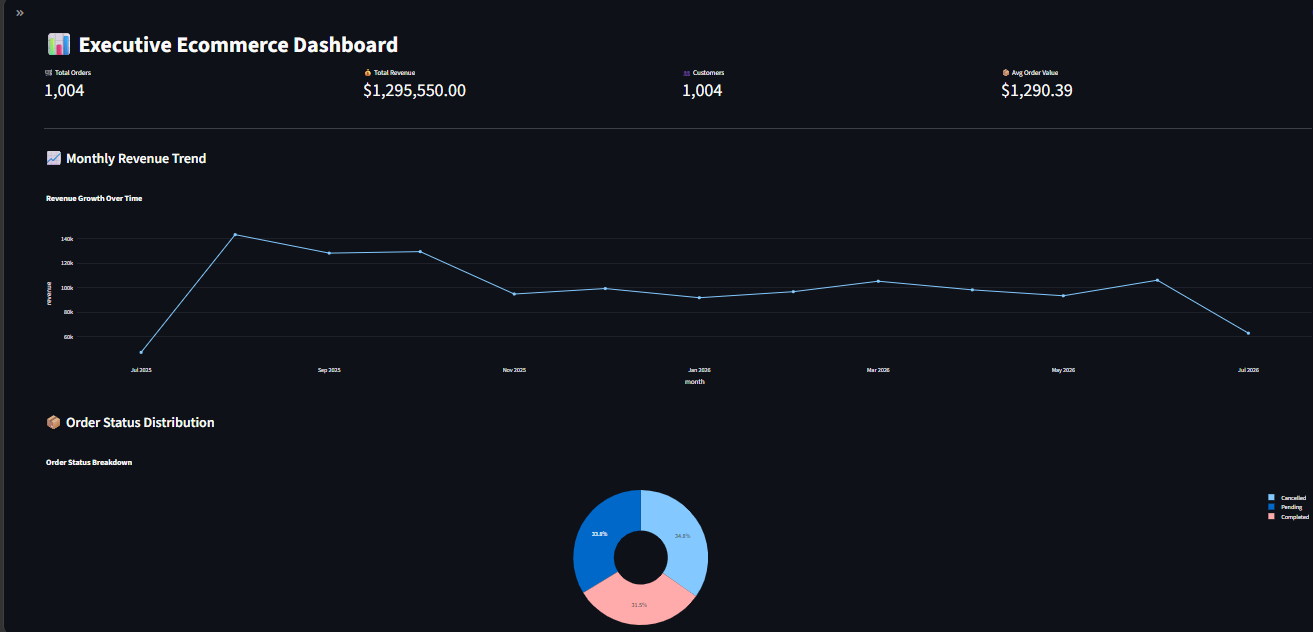
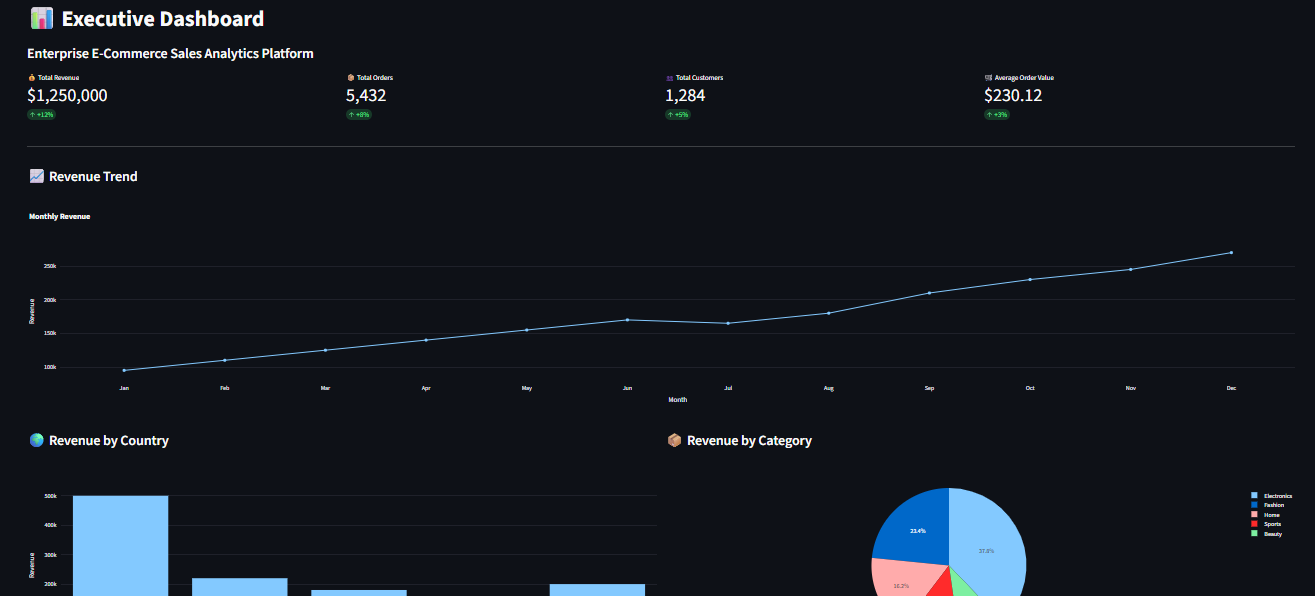
Updated executive dashboard and removed unused home dashboard

diff --git a/dashboard/pages/executive_dashboard.py b/dashboard/pages/executive_dashboard.py
@@ -1,0 +1,158 @@
+import streamlit as st
+import pandas as pd
+import plotly.express as px
+
+
+def show_executive():
+
+    st.title("📊 Executive Dashboard")
+    st.markdown("### Enterprise E-Commerce Sales Analytics Platform")
+
+    # ============================
+    # KPI CARDS
+    # ============================
+
+    col1, col2, col3, col4 = st.columns(4)
+
+    with col1:
+        st.metric(
+            label="💰 Total Revenue",
+            value="$1,250,000",
+            delta="+12%"
+        )
+
+    with col2:
+        st.metric(
+            label="📦 Total Orders",
+            value="5,432",
+            delta="+8%"
+        )
+
+    with col3:
+        st.metric(
+            label="👥 Total Customers",
+            value="1,284",
+            delta="+5%"
+        )
+
+    with col4:
+        st.metric(
+            label="🛒 Average Order Value",
+            value="$230.12",
+            delta="+3%"
+        )
+
+    st.divider()
+
+    # ============================
+    # SAMPLE DATA
+    # ============================
+
+    revenue_df = pd.DataFrame({
+        "Month": [
+            "Jan", "Feb", "Mar", "Apr",
+            "May", "Jun", "Jul", "Aug",
+            "Sep", "Oct", "Nov", "Dec"
+        ],
+        "Revenue": [
+            95000, 110000, 125000, 140000,
+            155000, 170000, 165000, 180000,
+            210000, 230000, 245000, 270000
+        ]
+    })
+
+    country_df = pd.DataFrame({
+        "Country": [
+            "USA",
+            "Canada",
+            "UK",
+            "Germany",
+            "India"
+        ],
+        "Revenue": [
+            500000,
+            220000,
+            180000,
+            150000,
+            200000
+        ]
+    })
+
+    category_df = pd.DataFrame({
+        "Category": [
+            "Electronics",
+            "Fashion",
+            "Home",
+            "Sports",
+            "Beauty"
+        ],
+        "Revenue": [
+            420000,
+            260000,
+            180000,
+            140000,
+            110000
+        ]
+    })
+
+    # ============================
+    # REVENUE TREND
+    # ============================
+
+    st.subheader("📈 Revenue Trend")
+
+    fig = px.line(
+        revenue_df,
+        x="Month",
+        y="Revenue",
+        markers=True,
+        title="Monthly Revenue"
+    )
+
+    st.plotly_chart(fig, use_container_width=True)
+
+    # ============================
+    # TWO CHARTS
+    # ============================
+
+    col1, col2 = st.columns(2)
+
+    with col1:
+
+        st.subheader("🌍 Revenue by Country")
+
+        fig = px.bar(
+            country_df,
+            x="Country",
+            y="Revenue"
+        )
+
+        st.plotly_chart(fig, use_container_width=True)
+
+    with col2:
+
+        st.subheader("📦 Revenue by Category")
+
+        fig = px.pie(
+            category_df,
+            names="Category",
+            values="Revenue"
+        )
+
+        st.plotly_chart(fig, use_container_width=True)
+
+    st.divider()
+
+    # ============================
+    # TOP PRODUCTS
+    # ============================
+
+    st.subheader("🏆 Top Product Categories")
+
+    st.dataframe(
+        category_df.sort_values(
+            by="Revenue",
+            ascending=False
+        ),
+        use_container_width=True
+    )

diff --git a/app.py b/app.py
@@ -1,6 +1,9 @@
 import streamlit as st
 
-from dashboard.pages.home_dashboard import show_home
+from dashboard.pages.executive_dashboard import show_executive
+from dashboard.pages.sales_dashboard import show_sales
+from dashboard.pages.customer_dashboard import show_customer
+from dashboard.pages.product_dashboard import show_product
 
 
 st.set_page_config(
@@ -9,46 +12,26 @@ st.set_page_config(
     layout="wide"
 )
 
-
 st.sidebar.title("📊 Navigation")
-
 
 page = st.sidebar.radio(
     "Select Dashboard",
     [
-        "Home",
+        "Executive Dashboard",
         "Sales Dashboard",
         "Customer Dashboard",
         "Product Dashboard"
     ]
 )
 
-
-
-if page == "Home":
-
-    show_home()
-
-
+if page == "Executive Dashboard":
+    show_executive()
 
 elif page == "Sales Dashboard":
-
-    from dashboard.pages.sales_dashboard import show_sales
-
     show_sales()
 
-
-
 elif page == "Customer Dashboard":
-
-    from dashboard.pages.customer_dashboard import show_customer
-
     show_customer()
 
-
-
 elif page == "Product Dashboard":
-
-    from dashboard.pages.product_dashboard import show_product
-
     show_product()